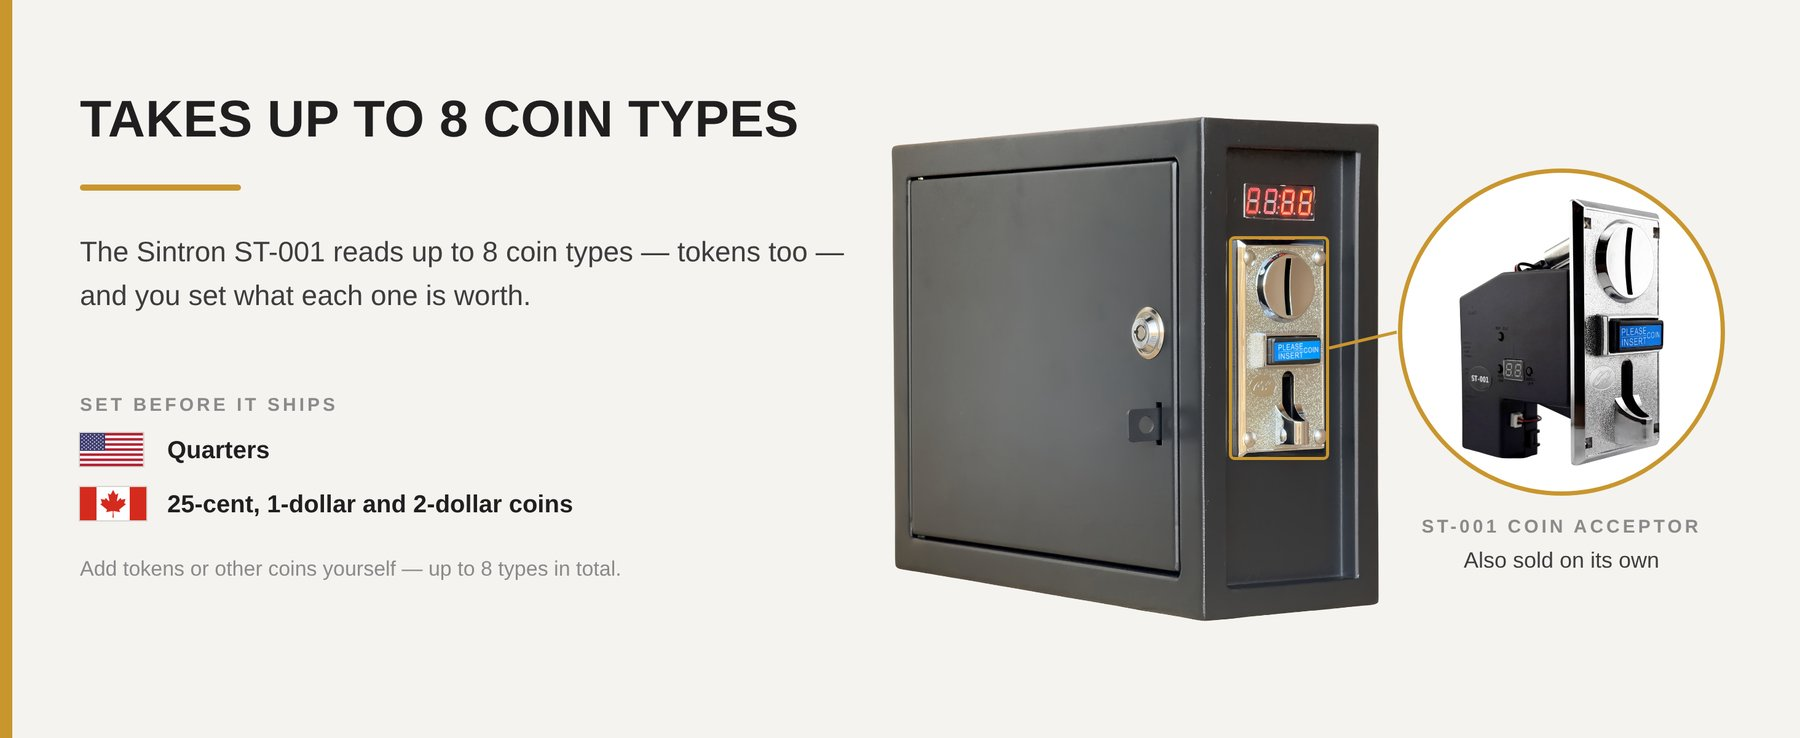
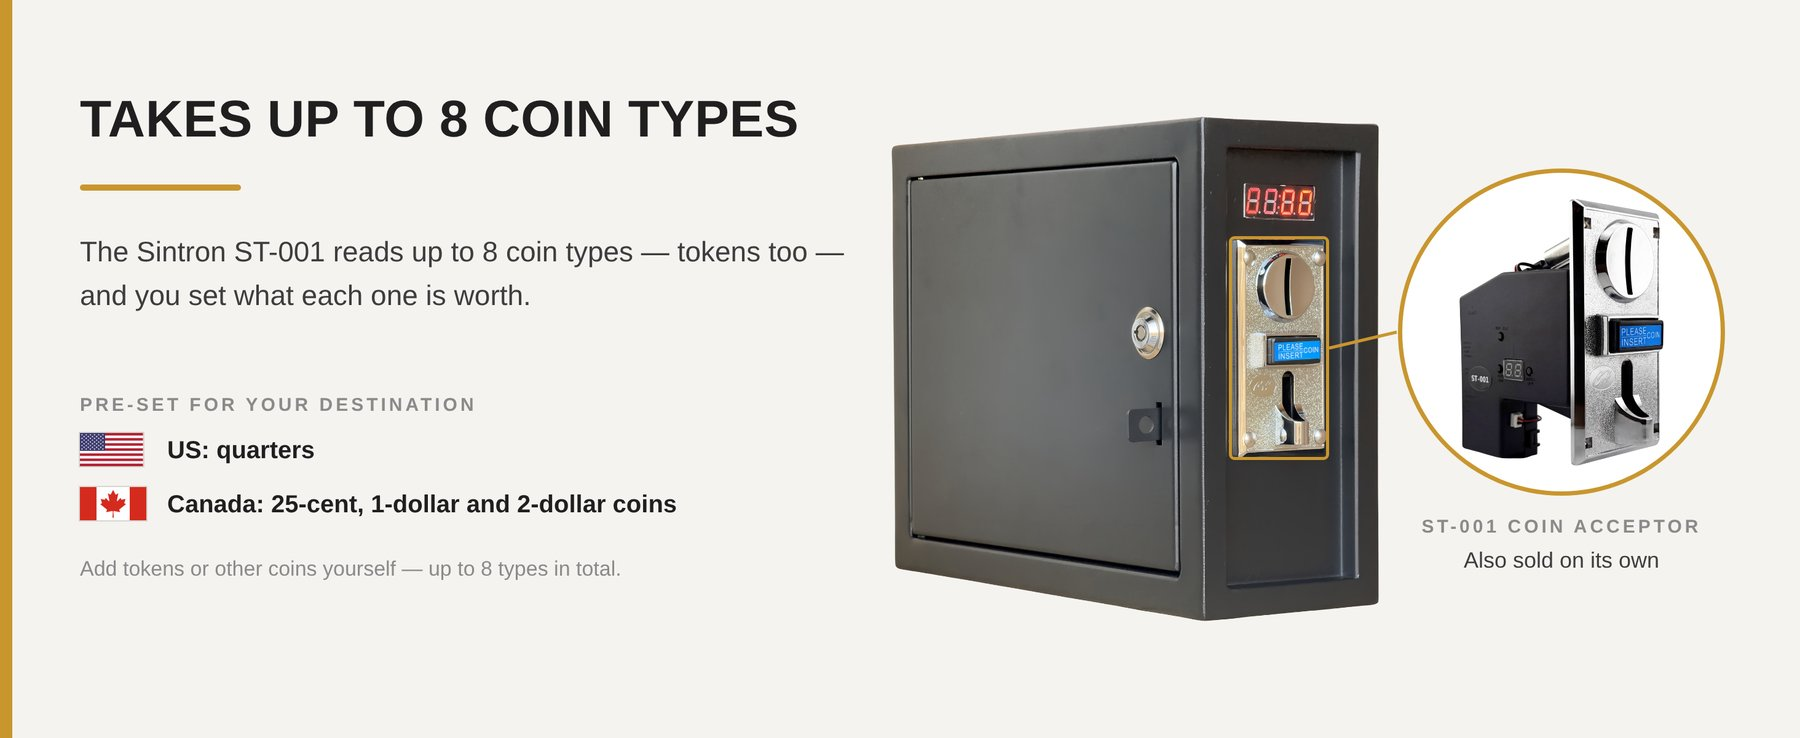
Round 3: coin pre-set wording, Premium Text, patent row; refreshed A+ 3-1, 3-3, 4-1 and gallery 4

Changed region(s): [[0.0933, 0.6545, 0.3733, 0.7168], [0.0311, 0.5298, 0.28, 0.561], [0.0933, 0.5921, 0.1867, 0.6233]]

diff --git a/index.html b/index.html
@@ -222,7 +222,7 @@ table.cmp thead th.hit{background:var(--gold);color:var(--ink)}
       <tr><td>Payment Gateway Support</td><td>None</td><td class="hit">None</td><td>PayPal, Stripe, Square &amp; more</td><td>PayPal, Stripe, Square &amp; more</td><td>PayPal, Stripe, Square &amp; more</td></tr>
       <tr><td>Customizable LCD Text</td><td class="no">✘</td><td class="hit no">✘</td><td class="yes">✔</td><td class="yes">✔</td><td class="yes">✔</td></tr>
       <tr><td>OTA Firmware Update</td><td class="no">✘</td><td class="hit no">✘</td><td class="yes">✔</td><td class="yes">✔</td><td class="yes">✔</td></tr>
-      <tr><td>USPTO Design Patent</td><td class="yes">✔</td><td class="hit yes">✔</td><td class="yes">✔</td><td class="yes">✔</td><td class="yes">✔</td></tr>
+      <tr><td>Design Patent Application</td><td class="yes">✔</td><td class="hit yes">✔</td><td class="yes">✔</td><td class="yes">✔</td><td class="yes">✔</td></tr>
     </tbody>
   </table>
   </div>
@@ -234,17 +234,17 @@ table.cmp thead th.hit{background:var(--gold);color:var(--ink)}
 /* ============ 三個版本的資料 ============ */
 const V = {
  a:{ dir:"10-30R", title:"Sintron ST-003 Coin Operated Timer Box, 240V Dryer, 3-Prong NEMA 10-30P",
-     hl:"For 220V–240V electric dryers up to 30A. 3-prong NEMA 10-30P cord attached. US and Canadian coins pre-set." },
+     hl:"For 220V–240V electric dryers up to 30A. 3-prong NEMA 10-30P cord attached. Pre-set for US or Canadian coins." },
  b:{ dir:"14-30R-Standard", title:"Sintron ST-003 Coin Operated Timer Box, 240V Dryer, 4-Prong NEMA 14-30P",
-     hl:"For 220V–240V electric dryers up to 30A. 4-prong NEMA 14-30P Standard cord attached. US and Canadian coins pre-set." },
+     hl:"For 220V–240V electric dryers up to 30A. 4-prong NEMA 14-30P Standard cord attached. Pre-set for US or Canadian coins." },
  c:{ dir:"14-30R-Reverse", title:"Sintron ST-003 Coin Operated Timer Box, 240V Dryer, 4-Prong 14-30P Reverse",
-     hl:"For 220V–240V electric dryers up to 30A. 4-prong NEMA 14-30P Reverse cord attached. US and Canadian coins pre-set." }
+     hl:"For 220V–240V electric dryers up to 30A. 4-prong NEMA 14-30P Reverse cord attached. Pre-set for US or Canadian coins." }
 };
 
-/* About this item：三個版本相同（2026-11-23 定稿）*/
+/* About this item：三個版本相同（2026-11-24 第三輪）*/
 const BUL = [
  "🔐【SUPERIOR PERFORMANCE】The Sintron ST-003 introduces a new design tailored for US/Canada 220V–240V electric dryers, supporting up to 30A. Enhanced with dual solid-state relays and DIN fuses you can swap in seconds.",
- "🔐【COIN PAYMENTS】The ST-003 Timer Control Power Box takes up to 8 coin types through the Sintron ST-001 coin acceptor, tokens included, and you set what each one is worth. Standard US and Canadian coins — quarters, loonies and toonies — are set before it ships. For coins plus mobile pay, choose the Sintron ST-005.",
+ "🔐【COIN PAYMENTS】The ST-003 Timer Control Power Box takes up to 8 coin types through the Sintron ST-001 coin acceptor, tokens included, and you set what each one is worth. Each unit is pre-set for either US or Canadian coins prior to shipping, depending on the destination. For coins plus mobile pay, choose the Sintron ST-005.",
  "🔐【CUSTOMIZABLE RUN TIME】You have the flexibility to set how many coins it takes and how long the dryer runs, up to 99:59 in minutes:seconds or hours:minutes. The LED display shows the time left, a beep and a flashing display warn that time is almost up, and the power cuts off at 00:00.",
  "🔐【BUILT-IN COUNTER】The ST-003 keeps count of what it has taken in. Press COUNTER on the timer board to see the total since your last reset — handy for a daily or weekly check against the coin tray — and press again for the all-time total, which can't be reset.",
  "🔐【BUILT FOR LAUNDRY】Engineered specifically for US and Canadian electric dryers, the ST-003 Timer Control Power Box provides reliable runtime and payment management for self-service laundry facilities. It plugs in between the wall outlet and the dryer, with no rewiring. For 110V–120V outlets and gas dryers, choose the Sintron ST-002.",
@@ -265,9 +265,9 @@ const P2 = {
   b: "Check the plug on your dryer's cord and count the prongs before you order. This listing is the 4-prong Standard version, NEMA 14-30P; the ST-003 also comes as a 4-prong Reverse and a 3-prong NEMA 10-30P.",
   c: "Check the plug on your dryer's cord and count the prongs before you order. This listing is the 4-prong Reverse version, NEMA 14-30P; the ST-003 also comes as a 4-prong Standard and a 3-prong NEMA 10-30P."
  },
- volt: "The ST-003 is built for 220V–240V circuits rated up to 30A. For household 110V–120V outlets up to 16A, please use the ST-002 instead. Gas dryers run from a standard 110V outlet, so they take the ST-002, not this box.",
- about: "The Sintron ST-003 is a timer box that controls how long a machine is allowed to run. You set the coin amount and the run time, up to 99:59, and the user pays before the machine will start. It takes up to 8 coin types through the Sintron ST-001 acceptor, with standard US and Canadian coins set before it ships, and it keeps two totals of what it has taken in: one you can reset for a daily or weekly check, and an all-time total. The ST-003 suits electric dryers in apartment laundry rooms, motels, campus housing, rental units, condos and RV parks.",
- real: "Please make sure you are getting the GENUINE Sintron ST-003. There are no-brand copies on the market that do not meet the same safety requirements and are rated well below 30A. An easy check: ask whether theirs uses solid-state relays."
+ volt: "The ST-003 is built for 220V–240V circuits rated up to 30A. For household 110V–120V outlets up to 16A, please use the ST-002 or ST-004 instead. Gas dryers run from a standard 110V outlet, so they take the ST-002 or ST-004, not the ST-003 or ST-005.",
+ about: "The Sintron ST-003 is a timer box that controls how long a machine is allowed to run. You set the coin amount and the run time, up to 99:59, and the user pays before the machine will start. It takes up to 8 coin types through the Sintron ST-001 acceptor, and it keeps two totals of what it has taken in: one you can reset for a daily or weekly check, and an all-time total. Each unit is pre-set for either US or Canadian coins prior to shipping, depending on the destination. The ST-003 suits electric dryers in apartment laundry rooms, motels, campus housing, rental units, condos and RV parks.",
+ real: "Please make sure you are getting the GENUINE Sintron ST-003. There are untested copies flooding the market that fail basic safety standards. Don't risk electrical fires, ruined equipment, or your family's safety just to save a few bucks."
 };
 function text2(v){
  const items = [P2.lead, P2.plug[v], P2.volt, P2.about, P2.real];
@@ -283,7 +283,7 @@ const QA_BASE = [
  ["Does the ST-003 take mobile payment?",
   "The ST-003 takes coins only. For coins plus scan-to-pay mobile payment on a 30A dryer circuit, choose the Sintron ST-005."],
  ["Which coins does the ST-003 accept?",
-  "Standard US and Canadian coins — quarters, loonies and toonies — are set before it ships. The Sintron ST-001 reads up to 8 coin types, tokens included, and you set what each one is worth."],
+  "Each unit is pre-set for either US or Canadian coins prior to shipping, depending on the destination. The Sintron ST-001 reads up to 8 coin types, tokens included, and you set what each one is worth."],
  ["Can I check how much the ST-003 has collected?",
   "Yes. Press COUNTER on the timer board inside the box. The first press shows the total since your last reset, and the second press shows the all-time total, which can't be reset."]
 ];
